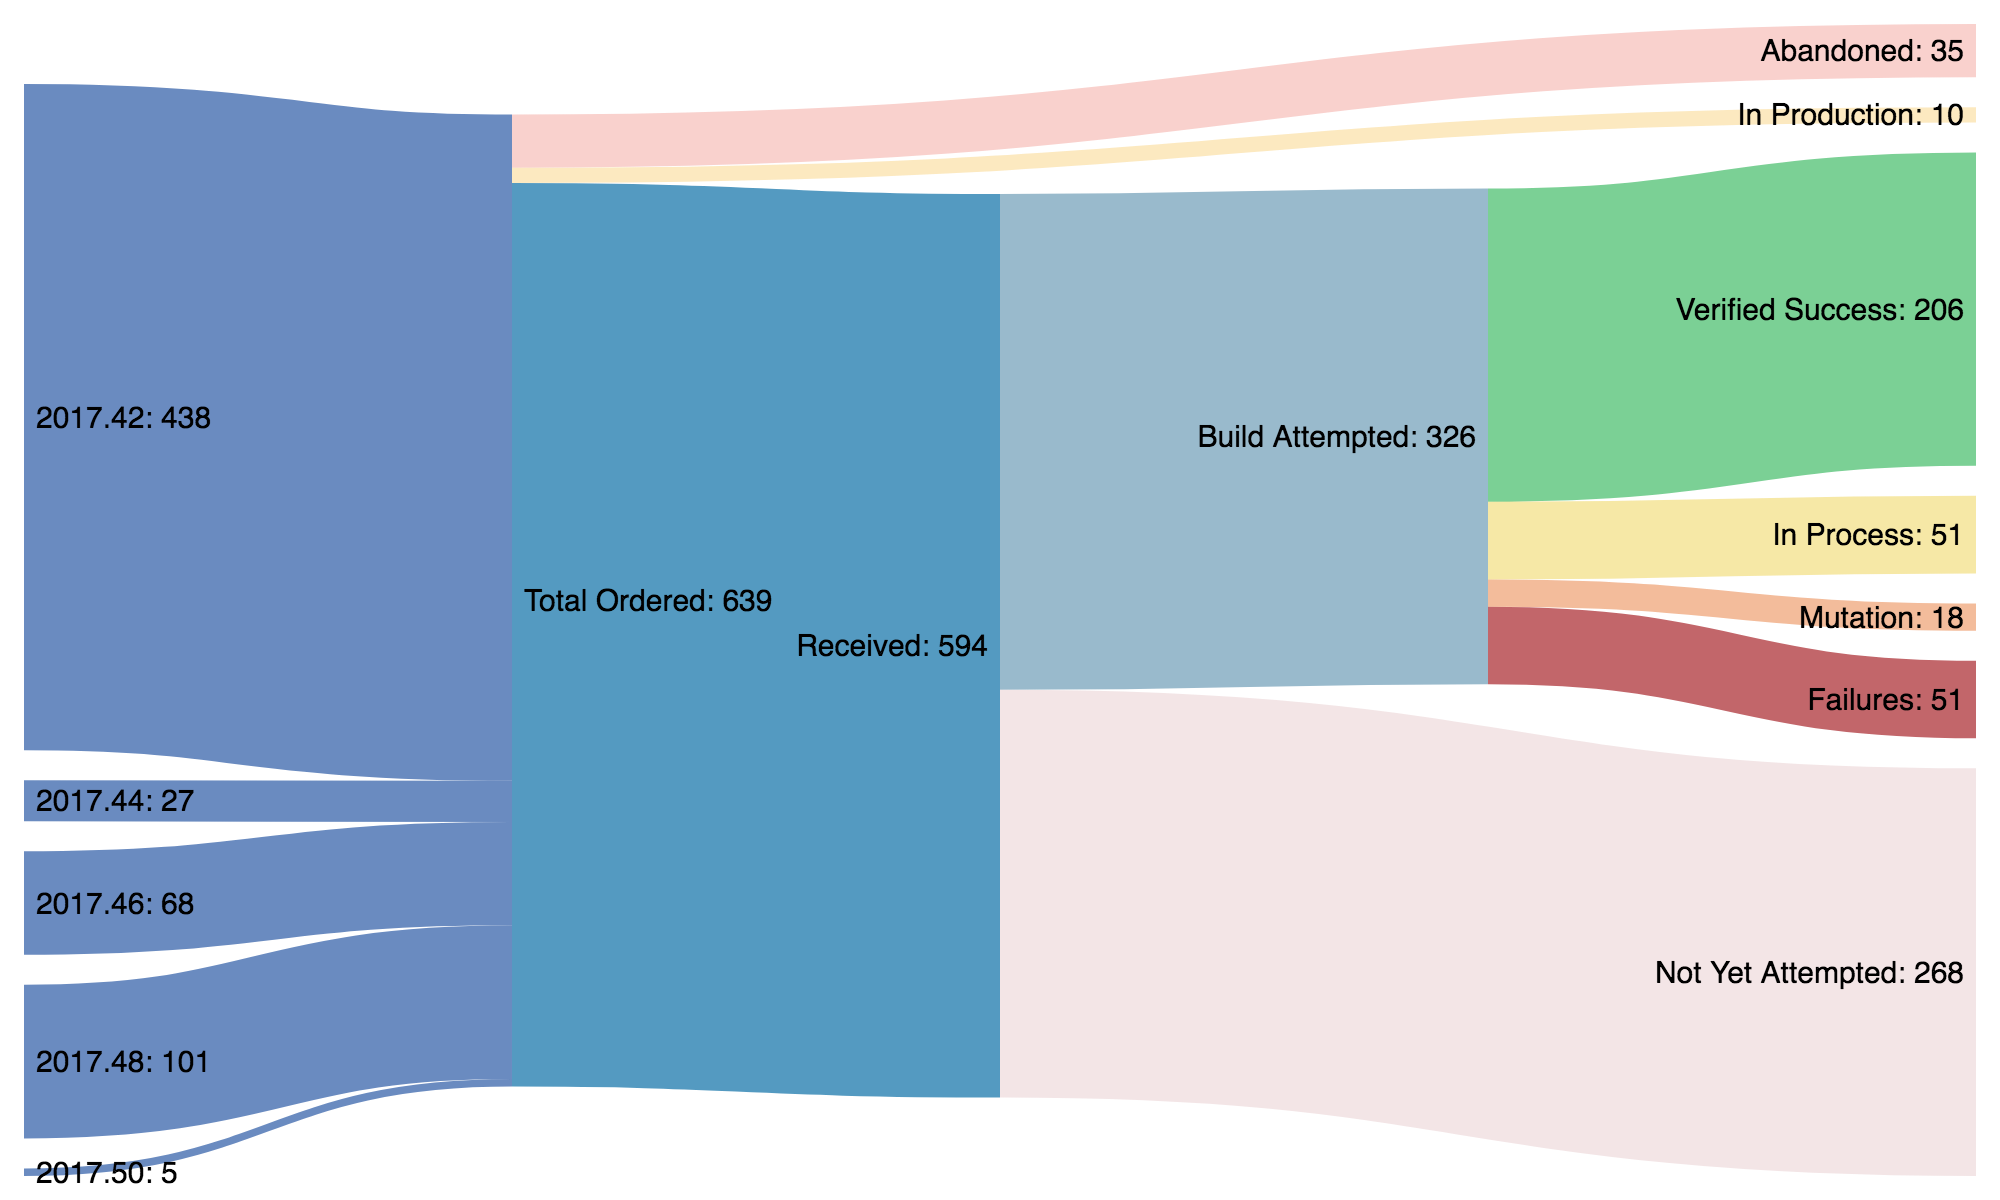
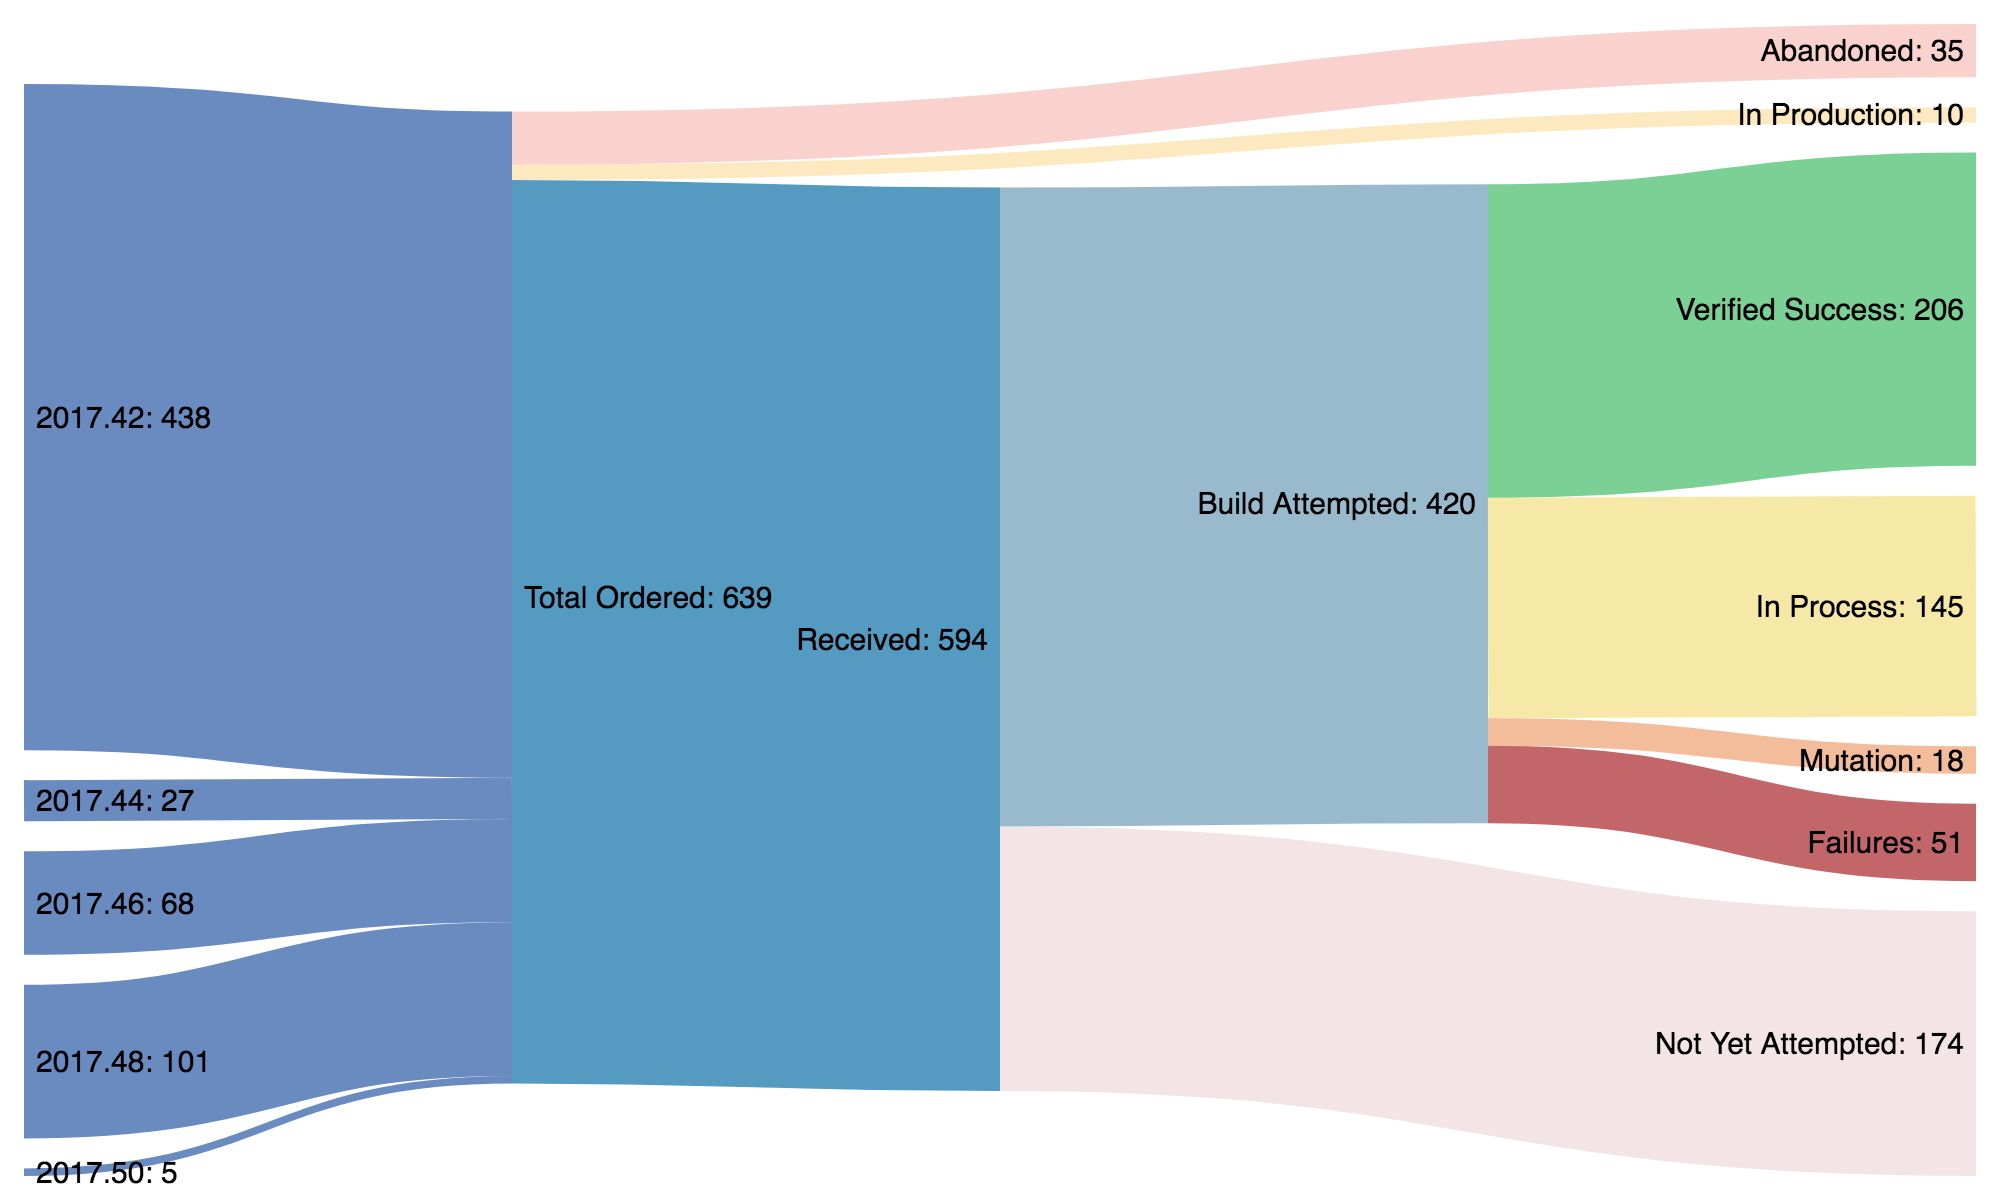
Fixed the status script to take in new fragments being built

diff --git a/pipeline/db_status.py b/pipeline/db_status.py
@@ -58,7 +58,7 @@ for file in glob.glob("../data/*/*.json"):
         abandoned += 1
     if data["status"]["build_ready"] == True:
         build_ready += 1
-    if data["status"]["build_complete"] != "":
+    if data["status"]["build_complete"] != "" or data["status"]["building"] == True:
         attempted += 1
     if data["status"]["build_complete"] == "Good_Sequence" or data["status"]["build_complete"] == "Good_sequence":
         complete += 1
@@ -72,7 +72,7 @@ for file in glob.glob("../data/*/*.json"):
         incomplete += 1
     elif data["status"]["build_complete"] == "Split Reads":
         split += 1
-    elif data["status"]["build_complete"] == "In_Process":
+    elif data["status"]["build_complete"] == "In_Process" or data["status"]["building"] == True:
         process += 1
     else:
         misc.append(data["status"]["build_complete"])
